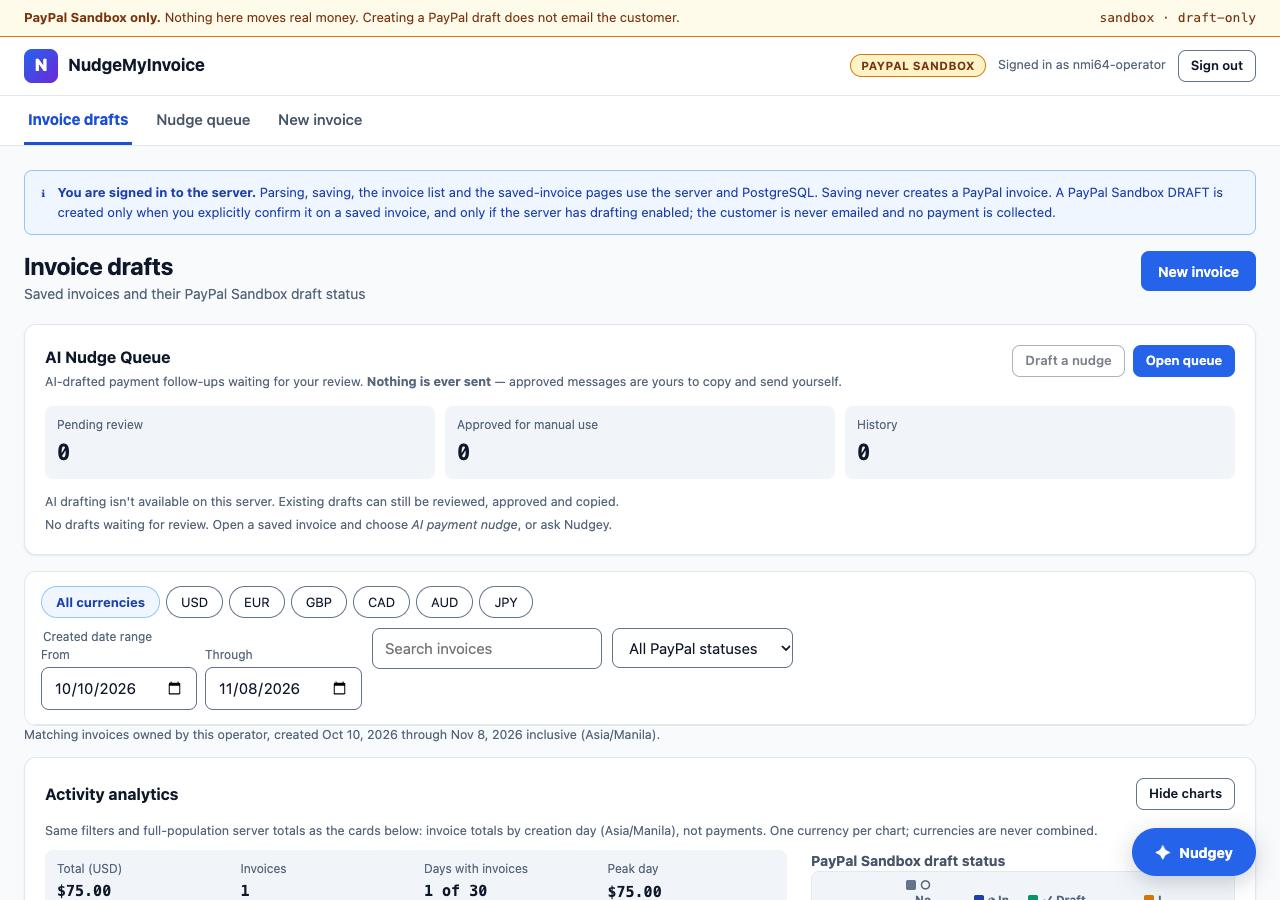
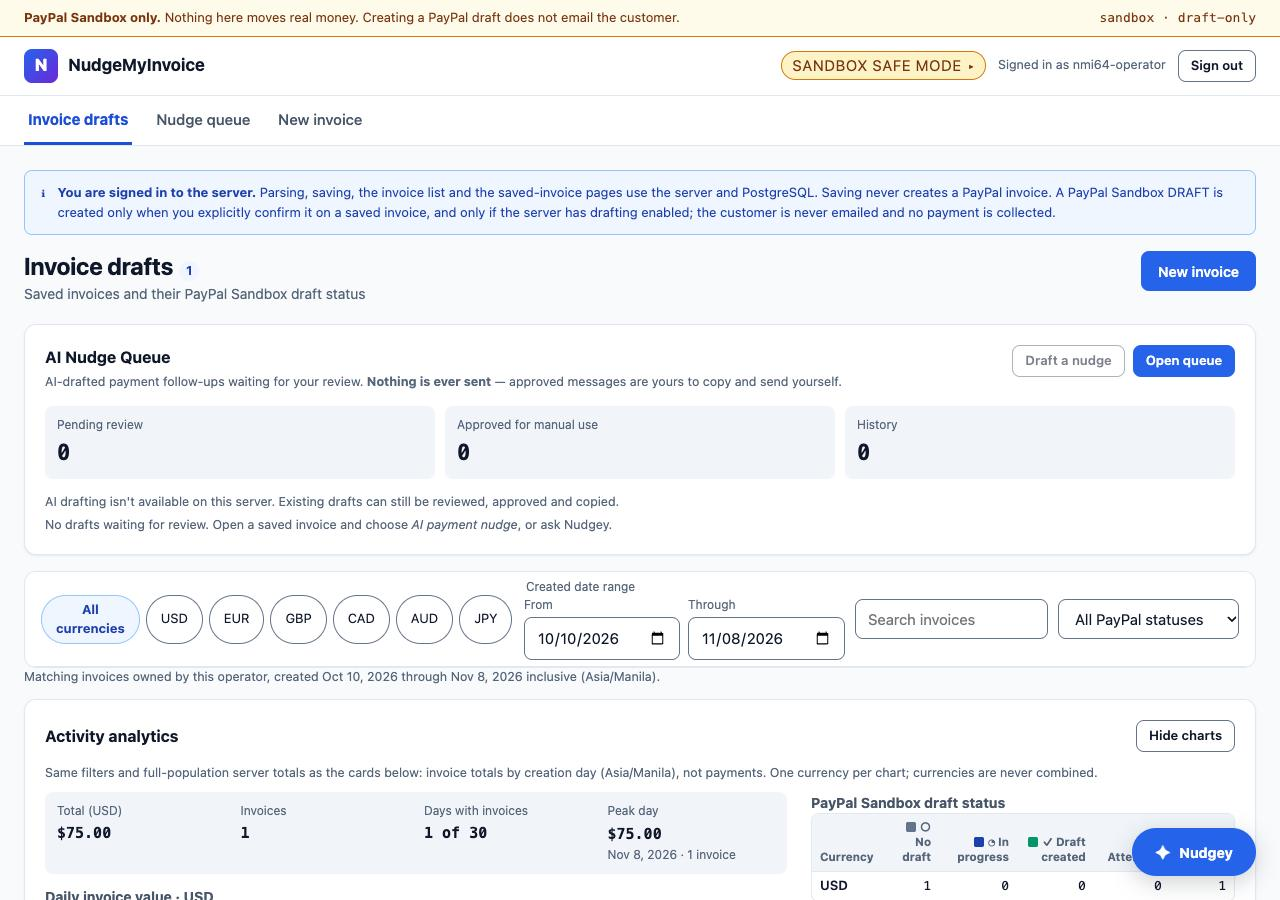
fix(nmi): Safe Mode pill label avoids pay-action guard trip
The P1 header pill read 'PayPal Sandbox ... Safe Mode'; the
existing no-send-or-pay-controls guard matches button labels against
^(send|pay|...) and 'PayPal' trips ^pay. Rename the pill to
'Sandbox Safe Mode' (PayPal context stays in the banner and the
inline safeguards) and refresh the affected screenshots.

diff --git a/apps/web/src/components/AppShell.test.tsx b/apps/web/src/components/AppShell.test.tsx
@@ -61,7 +61,7 @@ const pill = () => host.querySelector("button.sandbox-pill") as HTMLButtonElemen
 describe("Safe Mode status disclosure", () => {
   it("names the mode in the header without opening the safeguards", () => {
     const html = shell();
-    expect(html).toContain("PayPal Sandbox · Safe Mode");
+    expect(html).toContain("Sandbox Safe Mode");
     expect(html).toContain('aria-expanded="false"');
     expect(html).not.toContain("sandbox-detail");
     // Header, tabs and sign-out are untouched.

diff --git a/apps/web/src/components/AppShell.tsx b/apps/web/src/components/AppShell.tsx
@@ -78,7 +78,7 @@ export function SandboxStatusButton({
       aria-controls={detailId}
       onClick={onToggle}
     >
-      PayPal Sandbox · Safe Mode
+      Sandbox Safe Mode
       <span aria-hidden="true">{open ? "▾" : "▸"}</span>
       <span className="sr-only"> (show safeguards)</span>
     </button>
